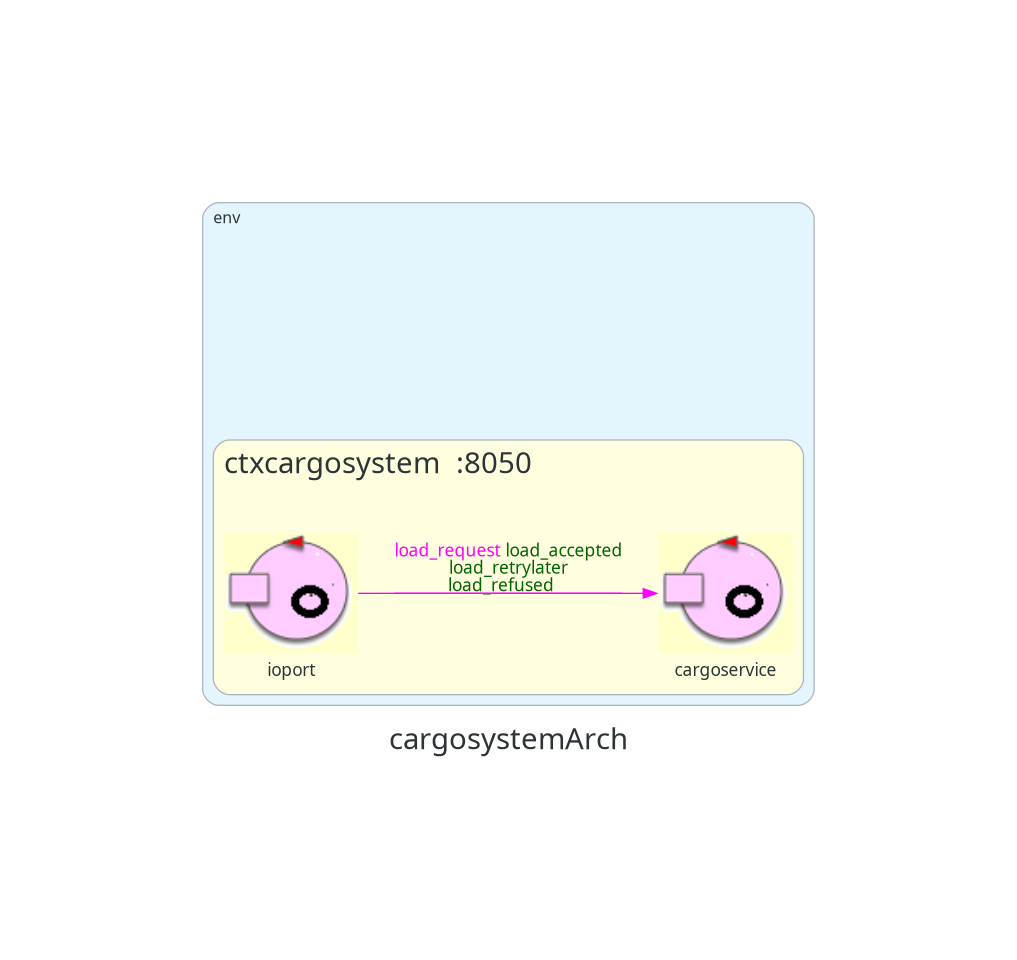
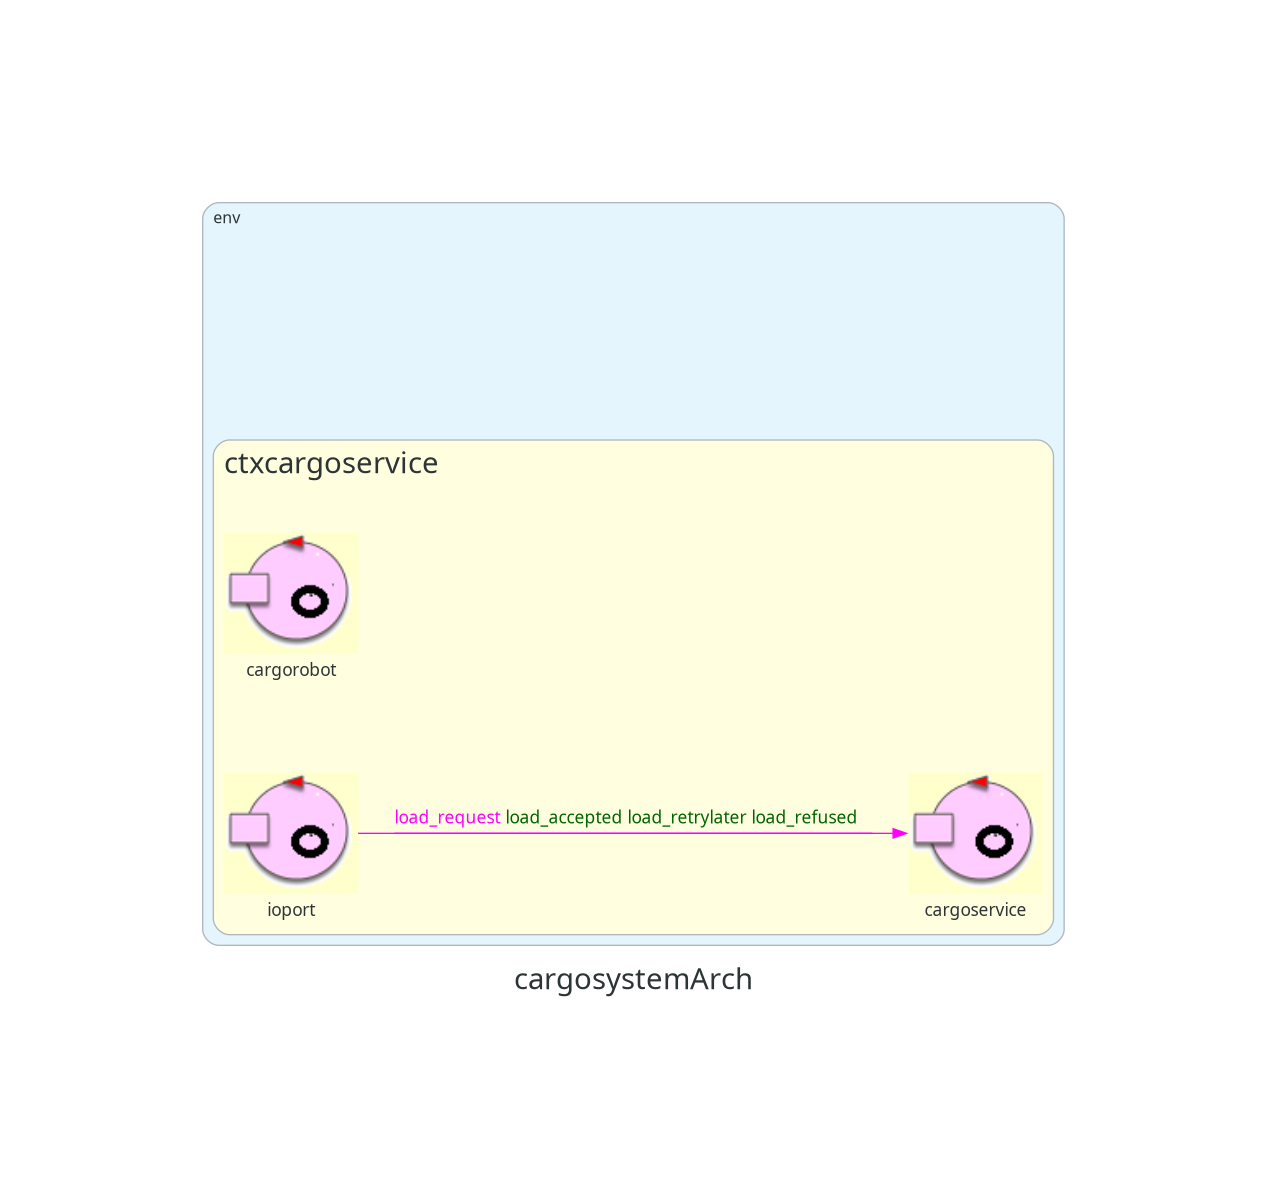
update: project

Changed region(s): [[0.1524, 0.1562, 0.8535, 0.8438], [0.3963, 0.5625, 0.6096, 0.625]]

diff --git a/sprint0/prototype/cargosystem/src/it/unibo/ioport/Ioport.kt b/sprint0/prototype/cargosystem/src/it/unibo/ioport/Ioport.kt
@@ -28,8 +28,7 @@ class Ioport ( name: String, scope: CoroutineScope, isconfined: Boolean=false, i
 	}
 	override fun getBody() : (ActorBasicFsm.() -> Unit){
 		//val interruptedStateTransitions = mutableListOf<Transition>()
-		//IF actor.withobj !== null val actor.withobj.name = actor.withobj.methodENDIF
-		
+		//IF actor.withobj !== null val actor.withobj.name� = actor.withobj.method�ENDIF
 		return { //this:ActionBasciFsm
 				state("s0") { //this:State
 					action { //it:State
@@ -41,55 +40,28 @@ class Ioport ( name: String, scope: CoroutineScope, isconfined: Boolean=false, i
 					}	 	 
 					 transition( edgeName="goto",targetState="press_button", cond=doswitch() )
 				}	 
-
-				// T1: prima richiesta → attesa load_accepted
 				state("press_button") { //this:State
 					action { //it:State
 						CommUtils.outmagenta("customer -> ioport | pushbutton pressed")
-						CommUtils.outcyan("ioport -> cargoservice | sending load_request [T1]")
-						request("load_request", "loadRequest(none)", "cargoservice")
+						CommUtils.outcyan("ioport -> cargoservice | sending load_request")
+						request("load_request", "loadRequest(none)" ,"cargoservice" )  
 						//genTimer( actor, state )
 					}
 					//After Lenzi Aug2002
 					sysaction { //it:State
 					}	 	 
-					 transition(edgeName="t0",targetState="accepted",cond=whenReply("load_accepted"))
+					 transition(edgeName="t01",targetState="accepted",cond=whenReply("load_accepted"))
+					transition(edgeName="t02",targetState="retrylater",cond=whenReply("load_retrylater"))
+					transition(edgeName="t03",targetState="refused",cond=whenReply("load_refused"))
 				}	 
 				state("accepted") { //this:State
 					action { //it:State
 						CommUtils.outgreen("ioport | DISPLAY: load accepted, reserved slot = slot1")
-						delay(1000)  // pausa di 1 secondo tra le due richieste
 						//genTimer( actor, state )
 					}
 					//After Lenzi Aug2002
 					sysaction { //it:State
 					}	 	 
-					 transition( edgeName="goto",targetState="press_button_2", cond=doswitch() )
-				}	 
-
-				// T3: seconda richiesta → cargoservice è engaged → load_refused
-				state("press_button_2") { //this:State
-					action { //it:State
-						CommUtils.outmagenta("customer -> ioport | pushbutton pressed")
-						CommUtils.outcyan("ioport -> cargoservice | sending load_request [T3 NUOVO - service engaged]")
-						request("load_request", "loadRequest(none)", "cargoservice")
-						//genTimer( actor, state )
-					}
-					//After Lenzi Aug2002
-					sysaction { //it:State
-					}	 	 
-					 transition(edgeName="t1",targetState="refused",cond=whenReply("load_refused"))
-					transition(edgeName="t2",targetState="retrylater",cond=whenReply("load_retrylater"))
-				}	 
-				state("refused") { //this:State
-					action { //it:State
-						CommUtils.outred("ioport | DISPLAY: load refused")
-						//genTimer( actor, state )
-					}
-					//After Lenzi Aug2002
-					sysaction { //it:State
-					}
-					// fine: nessuna transizione, il programma si ferma
 				}	 
 				state("retrylater") { //this:State
 					action { //it:State
@@ -98,8 +70,16 @@ class Ioport ( name: String, scope: CoroutineScope, isconfined: Boolean=false, i
 					}
 					//After Lenzi Aug2002
 					sysaction { //it:State
+					}	 	 
+				}	 
+				state("refused") { //this:State
+					action { //it:State
+						CommUtils.outred("ioport | DISPLAY: load refused")
+						//genTimer( actor, state )
 					}
-					// fine: nessuna transizione, il programma si ferma
+					//After Lenzi Aug2002
+					sysaction { //it:State
+					}	 	 
 				}	 
 			}
 		}

diff --git a/sprint0/prototype/cargosystem/src/it/unibo/cargoservice/Cargoservice.kt b/sprint0/prototype/cargosystem/src/it/unibo/cargoservice/Cargoservice.kt
@@ -28,8 +28,7 @@ class Cargoservice ( name: String, scope: CoroutineScope, isconfined: Boolean=fa
 	}
 	override fun getBody() : (ActorBasicFsm.() -> Unit){
 		//val interruptedStateTransitions = mutableListOf<Transition>()
-		//IF actor.withobj !== null val actor.withobj.name = actor.withobj.methodENDIF
-		
+		//IF actor.withobj !== null val actor.withobj.name� = actor.withobj.method�ENDIF
 		return { //this:ActionBasciFsm
 				state("s0") { //this:State
 					action { //it:State
@@ -49,35 +48,13 @@ class Cargoservice ( name: String, scope: CoroutineScope, isconfined: Boolean=fa
 					//After Lenzi Aug2002
 					sysaction { //it:State
 					}	 	 
-					 transition(edgeName="t0",targetState="handle_load_request",cond=whenRequest("load_request"))
+					 transition(edgeName="t00",targetState="handle_load_request",cond=whenRequest("load_request"))
 				}	 
 				state("handle_load_request") { //this:State
 					action { //it:State
 						CommUtils.outcyan("ioport -> cargoservice | load_request: loadRequest(none)")
-
-						/*
-						 * Testplan minimale:
-						 *
-						 * T1: richiesta accettata   (attiva)
-						 * T2: richiesta rinviata    (commentata)
-						 * T3: richiesta rifiutata   (commentata)
-						 *
-						 * Decommentare UNA sola reply alla volta.
-						 */
-
-						CommUtils.outgreen("cargoservice -> ioport | load_accepted: loadAccepted(slot1)")
-						answer("load_request", "load_accepted", "loadAccepted(slot1)")
-
-						/*
 						CommUtils.outyellow("cargoservice -> ioport | load_retrylater: loadRetryLater(none)")
-						answer("load_request", "load_retrylater", "loadRetryLater(none)")
-						*/
-
-						/*
-						CommUtils.outred("cargoservice -> ioport | load_refused: loadRefused(none)")
-						answer("load_request", "load_refused", "loadRefused(none)")
-						*/
-
+						answer("load_request", "load_retrylater", "loadRetryLater(none)"   )  
 						//genTimer( actor, state )
 					}
 					//After Lenzi Aug2002
@@ -93,19 +70,6 @@ class Cargoservice ( name: String, scope: CoroutineScope, isconfined: Boolean=fa
 					//After Lenzi Aug2002
 					sysaction { //it:State
 					}	 	 
-					// Se arriva una seconda richiesta mentre il servizio è engaged → rifiuta (T3)
-					 transition(edgeName="t_reject",targetState="handle_load_request_engaged",cond=whenRequest("load_request"))
-				}	 
-				state("handle_load_request_engaged") { //this:State
-					action { //it:State
-						CommUtils.outred("cargoservice -> ioport | load_refused: loadRefused(none) [service engaged]")
-						answer("load_request", "load_refused", "loadRefused(none)")
-						//genTimer( actor, state )
-					}
-					//After Lenzi Aug2002
-					sysaction { //it:State
-					}	 	 
-					 transition( edgeName="goto",targetState="disengaged", cond=doswitch() )
 				}	 
 			}
 		}

diff --git a/sprint0/prototype/cargosystem/src/it/unibo/cargorobot/Cargorobot.kt b/sprint0/prototype/cargosystem/src/it/unibo/cargorobot/Cargorobot.kt
@@ -28,8 +28,7 @@ class Cargorobot ( name: String, scope: CoroutineScope, isconfined: Boolean=fals
 	}
 	override fun getBody() : (ActorBasicFsm.() -> Unit){
 		//val interruptedStateTransitions = mutableListOf<Transition>()
-		//IF actor.withobj !== null val actor.withobj.name = actor.withobj.methodENDIF
-		
+		//IF actor.withobj !== null val actor.withobj.name� = actor.withobj.method�ENDIF
 		return { //this:ActionBasciFsm
 				state("s0") { //this:State
 					action { //it:State
@@ -42,13 +41,12 @@ class Cargorobot ( name: String, scope: CoroutineScope, isconfined: Boolean=fals
 				}	 
 				state("work") { //this:State
 					action { //it:State
-						println("cargorobot | WORK: move container from IOPort to slot5 and then to reserved slot")
+						CommUtils.outblue("cargorobot | WORK: move container from IOPort to slot5 and then to reserved slot")
 						//genTimer( actor, state )
 					}
 					//After Lenzi Aug2002
 					sysaction { //it:State
 					}	 	 
-					// nessuna transizione: resta in attesa
 				}	 
 			}
 		}

diff --git a/sprint0/prototype/cargosystem/src/it/unibo/ctxioport/MainCtxioport.kt b/sprint0/prototype/cargosystem/src/it/unibo/ctxioport/MainCtxioport.kt
@@ -7,7 +7,9 @@ import kotlinx.coroutines.runBlocking
 fun main() = runBlocking {
 	//System.setProperty(org.slf4j.impl.SimpleLogger.DEFAULT_LOG_LEVEL_KEY, "ERROR");
 	QakContext.createContexts(
-	        "localhost", this, "cargosystem.pl", "sysRules.pl"
+	        "localhost", this, "cargosystem.pl", "sysRules.pl", "ctxioport"
 	)
+	//JAN Facade
+	//JAN24 Display
 }
 

diff --git a/sprint0/prototype/cargosystem/src/it/unibo/ctxcargoservice/MainCtxcargoservice.kt b/sprint0/prototype/cargosystem/src/it/unibo/ctxcargoservice/MainCtxcargoservice.kt
@@ -9,5 +9,6 @@ fun main() = runBlocking {
 	QakContext.createContexts(
 	        "localhost", this, "cargosystem.pl", "sysRules.pl"
 	)
+	//JAN Facade
+	//JAN24 Display
 }
-

diff --git a/sprint0/prototype/cargosystem/src/it/unibo/ctxrobot/MainCtxrobot.kt b/sprint0/prototype/cargosystem/src/it/unibo/ctxrobot/MainCtxrobot.kt
@@ -9,5 +9,7 @@ fun main() = runBlocking {
 	QakContext.createContexts(
 	        "localhost", this, "cargosystem.pl", "sysRules.pl", "ctxrobot"
 	)
+	//JAN Facade
+	//JAN24 Display
 }
 

diff --git a/sprint0/prototype/cargosystem/Arch_cargosystem.py b/sprint0/prototype/cargosystem/Arch_cargosystem.py
@@ -1,30 +1,8 @@
 ### conda install diagrams
-import os
-import shutil
-import sys
-from pathlib import Path
-
 from diagrams import Cluster, Diagram, Edge
 from diagrams.custom import Custom
-from diagrams.generic.blank import Blank
-from graphviz.backend.execute import ExecutableNotFound
-
-
-BASE_DIR = Path(__file__).resolve().parent
-QAKICONS_DIR = BASE_DIR / 'qakicons'
-if not QAKICONS_DIR.exists():
-    QAKICONS_DIR = BASE_DIR.parent / 'qakicons'
-WINDOWS_GRAPHVIZ_BIN = Path('C:/Program Files/Graphviz/bin')
-
-if WINDOWS_GRAPHVIZ_BIN.exists():
-    os.environ['PATH'] += os.pathsep + str(WINDOWS_GRAPHVIZ_BIN)
-
-
-def qak_node(label, icon_name):
-    icon = QAKICONS_DIR / icon_name
-    if icon.exists():
-        return Custom(label, str(icon))
-    return Blank(label)
+import os
+os.environ['PATH'] += os.pathsep + 'C:/Program Files/Graphviz/bin/'
 
 graphattr = {     #https://www.graphviz.org/doc/info/attrs.html
     'fontsize': '22',
@@ -35,53 +13,21 @@ nodeattr = {
     'bgcolor': 'lightyellow'
 }
 
-reqedgeattr = {
-    'color': 'magenta',
-    'style': 'solid'
+eventedgeattr = {
+    'color': 'red',
+    'style': 'dotted'
 }
-
-
-def build_diagram():
-    with Diagram('cargosystemArch', show=False, outformat='png', graph_attr=graphattr) as diag:
-        with Cluster('env'):
-            system = qak_node('', 'system.png')
-            ### see https://renenyffenegger.ch/notes/tools/Graphviz/attributes/label/HTML-like/index
-            with Cluster('ctxcargosystem  :8050', graph_attr=nodeattr):
-                cargoservice = qak_node('cargoservice', 'symActorWithobjSmall.png')
-                ioport = qak_node('ioport', 'symActorWithobjSmall.png')
-
-            ioport >> Edge(
-                color='magenta', style='solid', decorate='true',
-                label='<load_request<font color="darkgreen"> load_accepted<br/>load_retrylater<br/>load_refused</font> &nbsp; >',
-                fontcolor='magenta'
-            ) >> cargoservice
-
-    return diag
-
-
-def main():
-    if not QAKICONS_DIR.exists():
-        print(f'Info: directory icone non trovata ({QAKICONS_DIR}); uso nodi testuali.')
-
-    if shutil.which('dot') is None:
-        print(
-            "Errore: Graphviz non e' installato o l'eseguibile 'dot' non e' nel PATH.\n"
-            "Installa Graphviz, poi rilancia: python3 Arch_cargosystem.py\n"
-            "Arch Linux: sudo pacman -S graphviz\n"
-            "Debian/Ubuntu: sudo apt install graphviz\n"
-            "Windows: installa Graphviz e aggiungi la cartella bin al PATH"
-        )
-        return 1
-
-    try:
-        build_diagram()
-    except ExecutableNotFound as exc:
-        print(f"Errore: impossibile eseguire Graphviz 'dot': {exc}")
-        return 1
-
-    print('Diagramma generato: cargosystemarch.png')
-    return 0
-
-
-if __name__ == '__main__':
-    sys.exit(main())
+evattr = {
+    'color': 'darkgreen',
+    'style': 'dotted'
+}
+with Diagram('cargosystemArch', show=False, outformat='png', graph_attr=graphattr) as diag:
+  with Cluster('env'):
+     sys = Custom('','./qakicons/system.png')
+### see https://renenyffenegger.ch/notes/tools/Graphviz/attributes/label/HTML-like/index
+     with Cluster('ctxcargoservice', graph_attr=nodeattr):
+          cargoservice=Custom('cargoservice','./qakicons/symActorWithobjSmall.png')
+          ioport=Custom('ioport','./qakicons/symActorWithobjSmall.png')
+          cargorobot=Custom('cargorobot','./qakicons/symActorWithobjSmall.png')
+     ioport >> Edge(color='magenta', style='solid', decorate='true', label='<load_request<font color="darkgreen"> load_accepted load_retrylater load_refused</font> &nbsp; >',  fontcolor='magenta') >> cargoservice
+diag